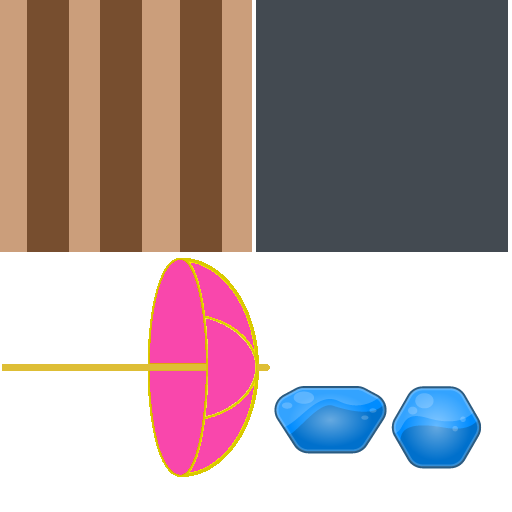
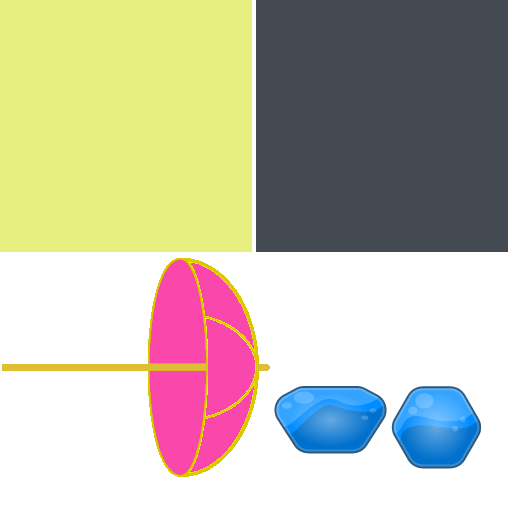
update

Changed region(s): [[0.0, 0.0, 0.5, 0.5]]

diff --git a/scripts/c3runtime.js b/scripts/c3runtime.js
@@ -1060,5 +1060,5 @@ e.C.ib.ka.qM,e.C.ib.nb.random,e.C.ib.nb.Aea,e.C.Lf.ka.hn,e.C.Lf.ka.T3,e.C.Lf.nb.
 {Keyboard:0},{ku:0},{qh:0},{Ifa:0},{Pfa:0},{Nfa:0},{Nia:0},{Eqa:0},{Kj:0},{Zma:0},{oh:0},{Gna:0},{Fna:0},{Epa:0},{Fpa:0},{Koa:0},{Lj:0},{aoa:0},{Qqa:0},{Pqa:0},{Loa:0},{Gpa:0},{type:0},{rha:0},{Jpa:0},{Kpa:0},{Yea:0},{yka:0},{Kna:0},{Fqa:0},{Dpa:0},{oqa:0},{pqa:0},{vka:0}]}"use strict";
 {const e=self.A;self.wW=[()=>0,a=>{const b=a.gb(0).qw;return()=>{var f=b.If();return"Score: "+("number"===typeof f?(Math.round(1E10*f)/1E10).toString():f)}},()=>"walk",()=>"idle",()=>"jump",()=>"fall",()=>"left",()=>"right",()=>10,()=>.5,()=>"Player",()=>32,()=>98,()=>330,()=>100,()=>2,()=>-90,a=>{const b=a.gb(0);return()=>b.Vb()},a=>{const b=a.gb(0);return()=>1.01*b.Vb()},a=>{const b=a.gb(0);return()=>b.Vb(2)},a=>{const b=a.gb(0),f=a.gb(1);return()=>(b.Vb()+f.Vb(2))/2},a=>{const b=a.gb(0),f=a.gb(1);
 return()=>2*b.Vb()-f.Vb()},()=>-100,()=>64,()=>96,()=>1,()=>1E3,()=>20,a=>{const b=a.gb(0).fg();return()=>2*b()},a=>{const b=a.gb(0).fg();return()=>2*b()},()=>-500,()=>-550,()=>.1,a=>{const b=a.gb(0).fg();return()=>"Layout 1"===b()?1:0},a=>{const b=a.gb(0).fg();return()=>3*b()},a=>{const b=a.gb(0).fg();return()=>"Layout 2"===b()?1:0},a=>{const b=a.gb(0).fg();return()=>.65*b()},a=>{const b=a.gb(0).fg();return()=>.7*b()},a=>{const b=a.gb(0).fg();return()=>b()},()=>"bgRainfall",a=>{const b=a.gb(0).fg(),
-f=a.gb(1).fg();return()=>b(2*f())},a=>{const b=a.gb(0).fg();return()=>b("player")},a=>{const b=a.gb(0).fg();return()=>b(2,8)},a=>{const b=a.gb(0);return()=>b.Vb()/2},a=>{const b=a.gb(0);return()=>10*b.Vb()},()=>7,()=>5,()=>4,()=>"player",a=>{const b=a.gb(0);return()=>b.BY()/2},a=>{const b=a.gb(0),f=a.gb(1),c=a.gb(2);return()=>(b.Vb()-(f.Vb()+c.Vb())/2)/50},a=>{const b=a.gb(0),f=a.gb(1),c=a.gb(2),d=a.gb(3);return()=>e.Ag(b.Vb(),f.Vb(),c.Vb(),d.Vb())},a=>{const b=a.gb(0),f=a.gb(1),c=a.gb(2);return()=>
+f=a.gb(1).fg();return()=>b(2*f())},a=>{const b=a.gb(0).fg();return()=>b("player")},a=>{const b=a.gb(0).fg();return()=>b(2,8)},a=>{const b=a.gb(0);return()=>b.Vb()/2},a=>{const b=a.gb(0);return()=>10*b.Vb()},()=>"BG",()=>"player",()=>4,()=>"bg",a=>{const b=a.gb(0);return()=>b.BY()/2},a=>{const b=a.gb(0),f=a.gb(1),c=a.gb(2);return()=>(b.Vb()-(f.Vb()+c.Vb())/2)/50},a=>{const b=a.gb(0),f=a.gb(1),c=a.gb(2),d=a.gb(3);return()=>e.Ag(b.Vb(),f.Vb(),c.Vb(),d.Vb())},a=>{const b=a.gb(0),f=a.gb(1),c=a.gb(2);return()=>
 (b.Vb()-(f.Vb()+c.Vb())/2)/7},a=>{const b=a.gb(0),f=a.gb(1),c=a.gb(2);return()=>(b.Vb()-(2*f.Vb()+c.Vb())/3)/8},()=>"platforms",a=>{const b=a.gb(0);return()=>b.CY()},a=>{const b=a.gb(0);return()=>b.Vb(1)},a=>{const b=a.gb(0),f=a.gb(1),c=a.gb(2),d=a.gb(3);return()=>4*e.Ag(b.Vb(),f.Vb(),c.Vb(1),d.Vb(1))},a=>{const b=a.gb(0),f=a.gb(1);return()=>(b.Vb()+f.Vb())/2}]}"use strict";self.A.wka={};
